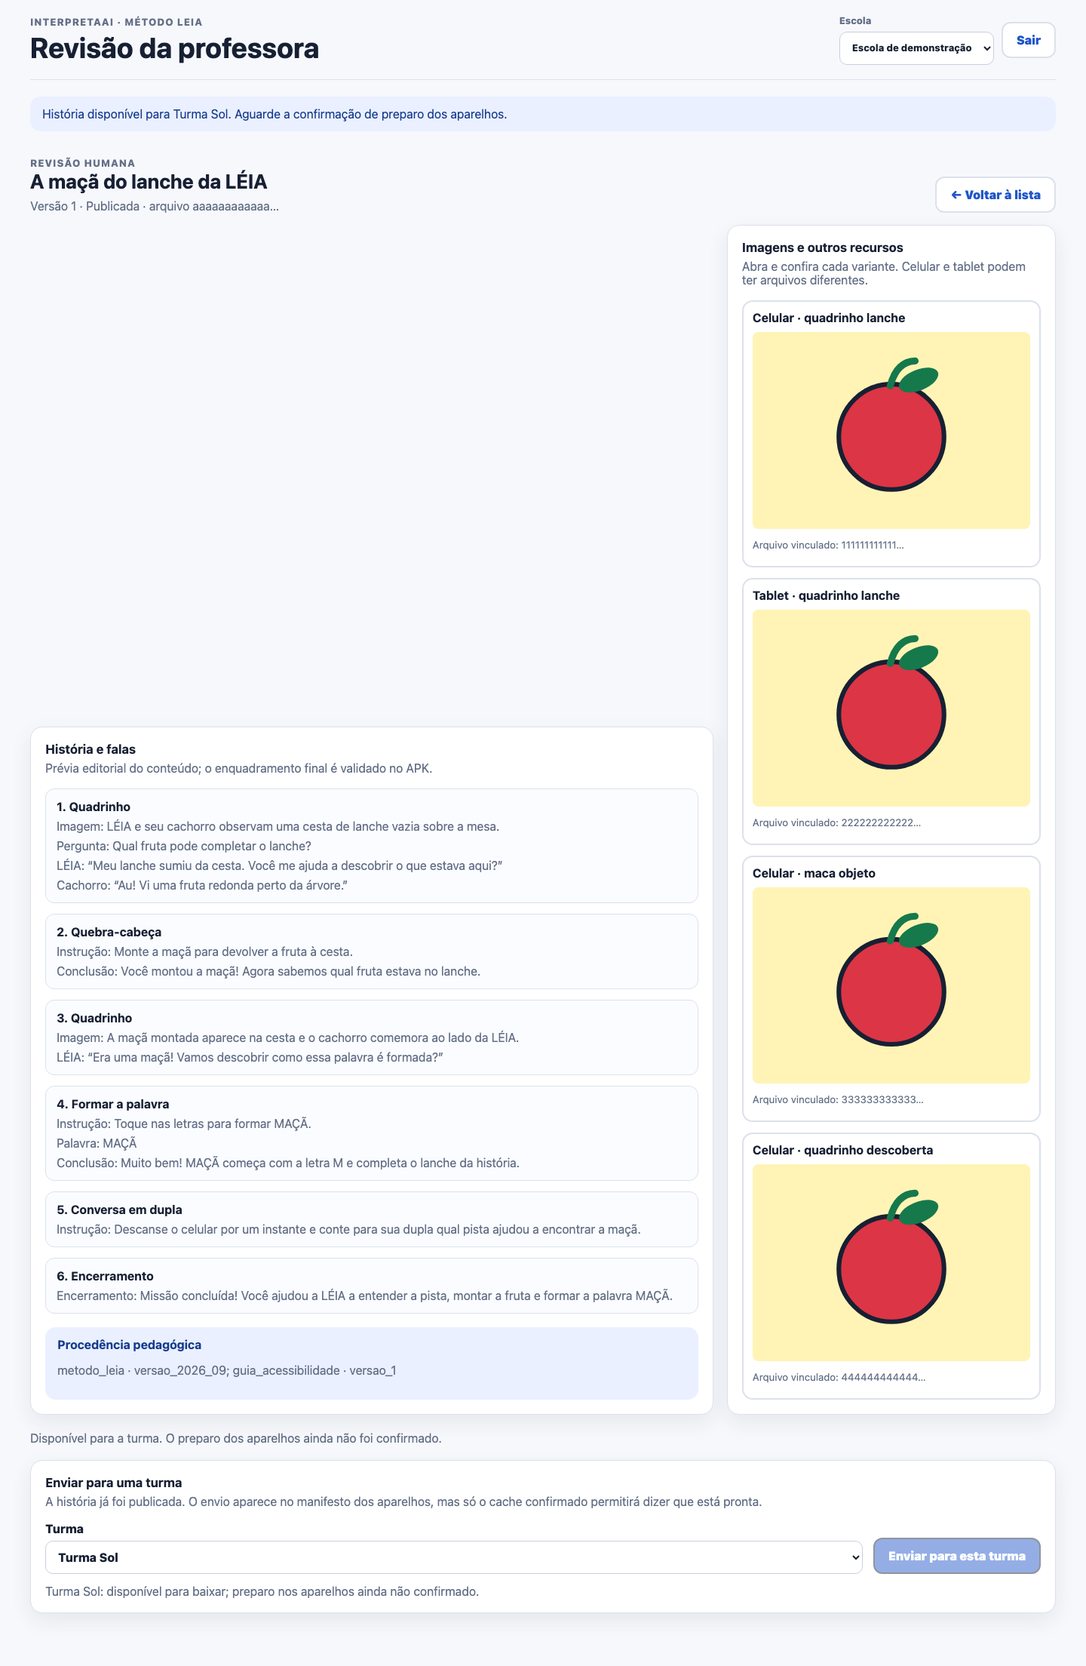
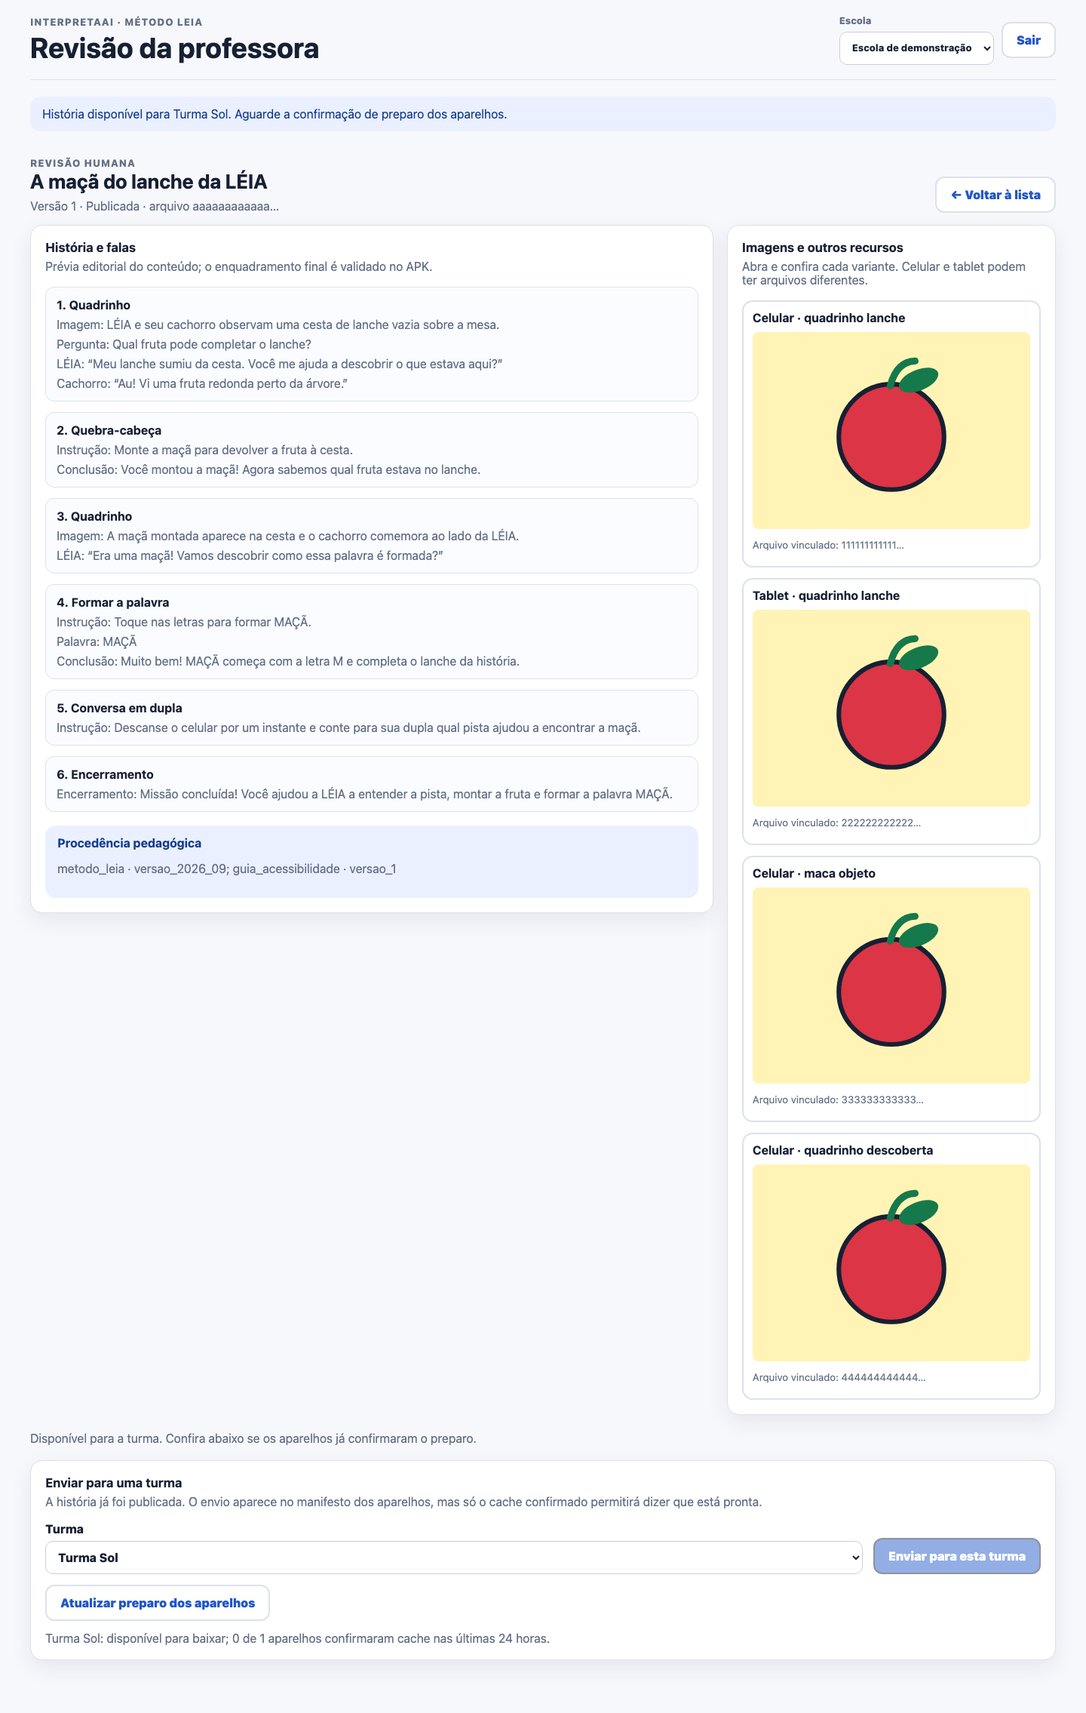
Show recent tablet preparation in teacher Studio and document limits

diff --git a/server/src/main/resources/static/studio/review.js b/server/src/main/resources/static/studio/review.js
@@ -1,5 +1,5 @@
 const studio = { schoolId: null, reviews: [], review: null, confirmed: new Set(), csrf: null,
-  classrooms: [], assignments: [], pendingAssignments: new Map() };
+  classrooms: [], assignments: [], preparation: new Map(), pendingAssignments: new Map() };
 const byId = id => document.getElementById(id);
 const sceneNames = {
   COMIC: "Quadrinho", PUZZLE: "Quebra-cabeça", WORD_BUILDER: "Formar a palavra",
@@ -113,6 +113,7 @@ function updateApproval() {
 
 function renderAssignments() {
   const selector = byId("classroom");
+  const selected = selector.value;
   selector.replaceChildren();
   for (const classroom of studio.classrooms) {
     const option = document.createElement("option");
@@ -120,6 +121,7 @@ function renderAssignments() {
     option.textContent = classroom.name;
     selector.append(option);
   }
+  if (studio.classrooms.some(item => item.classroomId === selected)) selector.value = selected;
   const list = byId("assignment-list");
   list.replaceChildren();
   if (!studio.classrooms.length) {
@@ -129,14 +131,37 @@ function renderAssignments() {
   } else {
     for (const assignment of studio.assignments) {
       const name = studio.classrooms.find(item => item.classroomId === assignment.target.id)?.name || "Turma";
-      list.append(element("p", `${name}: disponível para baixar; preparo nos aparelhos ainda não confirmado.`));
+      const summary = studio.preparation.get(assignment.assignmentId);
+      const detail = !summary ? "consultando aparelhos…"
+        : summary.error ? "não foi possível verificar o preparo; tente atualizar."
+        : summary.pairedCompatibleDevices === 0 ? "nenhum aparelho compatível pareado."
+        : `${summary.recentlyConfirmedDevices} de ${summary.pairedCompatibleDevices} aparelhos ` +
+          `confirmaram cache nas últimas ${summary.freshnessHours} horas.`;
+      list.append(element("p", `${name}: disponível para baixar; ${detail}`));
     }
   }
+  byId("refresh-preparation").hidden = studio.assignments.length === 0;
   if (studio.assignments.length) {
-    byId("review-instruction").textContent = "Disponível para a turma. O preparo dos aparelhos ainda não foi confirmado.";
+    const confirmed = studio.assignments.some(assignment =>
+      (studio.preparation.get(assignment.assignmentId)?.recentlyConfirmedDevices || 0) > 0);
+    byId("review-instruction").textContent = confirmed
+      ? "Há confirmações recentes de cache; confira a quantidade por turma. Isso não indica uso pela criança."
+      : "Disponível para a turma. Confira abaixo se os aparelhos já confirmaram o preparo.";
   }
   byId("assign").disabled = !selector.value || studio.assignments.some(
     item => item.target.id === selector.value);
+}
+
+async function refreshPreparation() {
+  const schoolId = studio.schoolId;
+  const result = await Promise.all(studio.assignments.map(async assignment => {
+    const path = `/studio/api/schools/${schoolId}/assignments/${assignment.assignmentId}/preparation`;
+    try { return [assignment.assignmentId, await api(path)]; }
+    catch (_) { return [assignment.assignmentId, { error: true }]; }
+  }));
+  if (schoolId !== studio.schoolId) return;
+  studio.preparation = new Map(result);
+  renderAssignments();
 }
 
 async function loadAssignments() {
@@ -146,8 +171,10 @@ async function loadAssignments() {
   ]);
   studio.classrooms = classrooms;
   studio.assignments = assignments;
+  studio.preparation.clear();
   byId("assignment-section").hidden = false;
   renderAssignments();
+  await refreshPreparation();
 }
 
 function pendingAssignment(classroomId) {
@@ -262,6 +289,9 @@ byId("publish").addEventListener("click", async () => {
   } catch (error) { feedback(error.message, true); }
 });
 byId("classroom").addEventListener("change", renderAssignments);
+byId("refresh-preparation").addEventListener("click", () =>
+  refreshPreparation().then(() => feedback("Preparo atualizado. Confira a quantidade de aparelhos por turma."))
+    .catch(error => feedback(error.message, true)));
 byId("assign").addEventListener("click", async () => {
   const classroomId = byId("classroom").value;
   const classroom = studio.classrooms.find(item => item.classroomId === classroomId);

diff --git a/server/src/main/resources/static/studio/review.css b/server/src/main/resources/static/studio/review.css
@@ -14,7 +14,6 @@
 .scene-review { margin-top: 18px; }
 .source-review { margin-top: 18px; }
 .review-layout { align-items: start; }
-@media (min-width: 901px) { .review-layout > .card:first-child { position: sticky; top: 20px; } }
 .scene-review article { border: 1px solid var(--line); border-radius: 12px; padding: 14px; background: #fbfcff; }
 .scene-review p { margin: 8px 0 0; }
 .asset-review { margin-top: 18px; }
@@ -32,6 +31,7 @@
 .assignment-controls select { width: 100%; }
 .assignment-list { display: grid; gap: 8px; margin-top: 14px; }
 .assignment-list p { margin: 0; }
+.refresh-preparation { margin-top: 14px; }
 .button:disabled { cursor: not-allowed; opacity: .48; box-shadow: none; transform: none; }
 @media (max-width: 700px) {
   .studio-header { align-items: start; flex-direction: column; padding: 22px 0; }

diff --git a/server/src/main/resources/static/studio/index.html b/server/src/main/resources/static/studio/index.html
@@ -44,6 +44,7 @@
           <div class="assignment-controls"><label class="field" for="classroom">Turma
             <select id="classroom" aria-label="Turma para receber a história"></select></label>
             <button id="assign" class="button blue" type="button">Enviar para esta turma</button></div>
+          <button id="refresh-preparation" class="button quiet refresh-preparation" type="button" hidden>Atualizar preparo dos aparelhos</button>
           <div id="assignment-list" class="assignment-list" aria-live="polite"></div>
         </section>
       </section>

diff --git a/tools/audit-studio-review.py b/tools/audit-studio-review.py
@@ -47,7 +47,7 @@ def main():
     server = ThreadingHTTPServer(("127.0.0.1", 0), partial(SimpleHTTPRequestHandler, directory=str(STATIC)))
     worker = Thread(target=server.serve_forever, daemon=True)
     worker.start()
-    state = {"status": "DRAFT", "assignments": []}
+    state = {"status": "DRAFT", "assignments": [], "confirmed": 0}
 
     def intercept(route):
         path = urlsplit(route.request.url).path
@@ -67,6 +67,9 @@ def main():
                     "packJson": json.dumps(pack, ensure_ascii=False), "assets": assets}
         elif path.endswith("/classrooms"):
             body = [{"classroomId": "class_demo", "name": "Turma Sol"}]
+        elif path.endswith("/preparation"):
+            body = {"assignmentId": "assignment_fixture_001", "pairedCompatibleDevices": 1,
+                    "recentlyConfirmedDevices": state["confirmed"], "freshnessHours": 24}
         elif path.endswith("/assignments"):
             if route.request.method == "POST":
                 state["assignments"] = [{"assignmentId": "assignment_fixture_001",
@@ -91,6 +94,7 @@ def main():
             for width, height, label in [(390, 844, "mobile"), (800, 1280, "tablet"), (1440, 1000, "desktop")]:
                 state["status"] = "DRAFT"
                 state["assignments"] = []
+                state["confirmed"] = 0
                 page = browser.new_page(viewport={"width": width, "height": height})
                 errors = []
                 page.on("pageerror", lambda error: errors.append(str(error)))
@@ -119,9 +123,21 @@ def main():
                 expect(page.get_by_role("button", name="Aprovar esta versão")).to_be_hidden()
                 page.get_by_role("button", name="Enviar para esta turma").click()
                 expect(page.get_by_role("button", name="Enviar para esta turma")).to_be_disabled()
-                expect(page.get_by_text("Turma Sol: disponível para baixar; preparo nos aparelhos ainda não confirmado.")).to_be_visible()
+                expect(page.get_by_text(
+                    "Turma Sol: disponível para baixar; 0 de 1 aparelhos confirmaram cache nas últimas 24 horas."
+                )).to_be_visible()
                 assert page.evaluate("document.documentElement.scrollWidth <= innerWidth"), f"assigned overflow: {label}"
                 page.screenshot(path=OUTPUT / f"{label}-assigned.png", full_page=True)
+                state["confirmed"] = 1
+                page.get_by_role("button", name="Atualizar preparo dos aparelhos").click()
+                expect(page.get_by_text(
+                    "Turma Sol: disponível para baixar; 1 de 1 aparelhos confirmaram cache nas últimas 24 horas."
+                )).to_be_visible()
+                expect(page.get_by_text(
+                    "Há confirmações recentes de cache; confira a quantidade por turma. Isso não indica uso pela criança."
+                )).to_be_visible()
+                expect(page.get_by_text("Preparo atualizado. Confira a quantidade de aparelhos por turma.")).to_be_visible()
+                page.screenshot(path=OUTPUT / f"{label}-confirmed.png", full_page=True)
                 assert not errors, (label, errors)
                 page.close()
             browser.close()

diff --git a/docs/v2/STUDIO_REVIEW.md b/docs/v2/STUDIO_REVIEW.md
@@ -4,7 +4,7 @@ Estado em 17/09/2026: interface e BFF implementados e testados **localmente**. A
 
 ## Jornada implementada
 
-A professora entra via OIDC institucional, escolhe uma escola do seu vínculo ativo, abre um rascunho e confere cenas, diálogos, palavra-alvo, procedência e cada variante privada de imagem/áudio. Só consegue aprovar depois de confirmar todos os arquivos carregados. A aprovação envia revisão, hash do rascunho e hashes das mídias ao servidor; o backend repete autorização e validações. Publicar é uma segunda ação explícita. Depois, a professora escolhe uma turma vinculada e disponibiliza a versão publicada. **Publicar não atribui à turma; atribuir não comprova que os tablets prepararam o cache.** Quando não há histórias, a interface mostra estado vazio verdadeiro, não conteúdo de demonstração.
+A professora entra via OIDC institucional, escolhe uma escola do seu vínculo ativo, abre um rascunho e confere cenas, diálogos, palavra-alvo, procedência e cada variante privada de imagem/áudio. Só consegue aprovar depois de confirmar todos os arquivos carregados. A aprovação envia revisão, hash do rascunho e hashes das mídias ao servidor; o backend repete autorização e validações. Publicar é uma segunda ação explícita. Depois, a professora escolhe uma turma vinculada e disponibiliza a versão publicada. **Publicar não atribui à turma; atribuir não comprova que os tablets prepararam o cache.** Após a atribuição, o painel consulta separadamente aparelhos compatíveis pareados e recibos de cache verificado nas últimas 24 horas, com atualização manual. Quando não há histórias, a interface mostra estado vazio verdadeiro, não conteúdo de demonstração.
 
 ## Fronteira de segurança
 
@@ -14,11 +14,12 @@ Para ativar em staging, configurar um cliente OIDC Spring `studio` com issuer, c
 
 ## Evidência e limites
 
-- `./gradlew :server:test` cobre segurança habilitada/desabilitada, isolamento por escola/autoria, CSRF, aprovação/publicação e atribuição idempotente à turma; revogar o vínculo da professora corta listagem e nova atribuição. OIDC é simulado.
+- `./gradlew :server:test` cobre segurança habilitada/desabilitada, isolamento por escola/autoria, CSRF, aprovação/publicação, atribuição idempotente e recibo de preparo; hash errado, recibo antigo e aparelho revogado não contam. OIDC é simulado.
 - `uv run --with playwright python3 tools/audit-studio-review.py` confere layout e o fluxo revisão → publicação → turma em 390×844, 800×1280 e 1440×1000. As capturas em `output/screenshots/v2-studio-review-fixture/` usam **fixture sintética**, não geração real nem Oracle.
-- Não há edição, pedido de ajuste/rejeição, relatório docente, geração de pacote pelo Codex nem recibo de preparo do tablet nesta interface. A conexão geração → revisão → publicação → atribuição → cache offline ainda está pendente de teste integrado.
+- Não há edição, pedido de ajuste/rejeição, relatório docente nem geração de pacote pelo Codex nesta interface. A conexão geração → revisão → publicação → atribuição → cache offline ainda está pendente de teste integrado em aparelhos escolares e servidor real.
+- O recibo é afirmação de um aplicativo autenticado após verificar arquivos locais; não prova permanência futura do cache, execução pela criança ou aprendizado. A revogação ainda não remove automaticamente a cópia local por manifesto; não usar o contador como métrica infantil.
 - Não houve teste com professoras ou crianças. A auditoria visual técnica não prova usabilidade humana.
-- Um smoke em PostgreSQL 17.11 local aplicou as 19 migrações e executou as consultas novas sem dados. O fluxo com sessão OIDC e PostgreSQL da Oracle permanece sem validação.
+- Um smoke em PostgreSQL 17.11 local e descartável aplicou as 20 migrações até V20, confirmou a tabela de recibos e iniciou o JAR. Isso não substitui teste de consulta com dados em PostgreSQL nem valida sessão OIDC e PostgreSQL da Oracle.
 
 ### Capturas de auditoria (fixture sintética)
 
@@ -26,4 +27,4 @@ Para ativar em staging, configurar um cliente OIDC Spring `studio` com issuer, c
 |---|---|---|
 | ![Revisão no celular com conteúdo sintético](../../output/screenshots/v2-studio-review-fixture/mobile-review.png) | ![Revisão no tablet com conteúdo sintético](../../output/screenshots/v2-studio-review-fixture/tablet-review.png) | ![Revisão no desktop com conteúdo sintético](../../output/screenshots/v2-studio-review-fixture/desktop-review.png) |
 
-Após a atribuição: [celular](../../output/screenshots/v2-studio-review-fixture/mobile-assigned.png), [tablet](../../output/screenshots/v2-studio-review-fixture/tablet-assigned.png), [desktop](../../output/screenshots/v2-studio-review-fixture/desktop-assigned.png). Todas são capturas sintéticas.
+Após a atribuição: [celular](../../output/screenshots/v2-studio-review-fixture/mobile-assigned.png), [tablet](../../output/screenshots/v2-studio-review-fixture/tablet-assigned.png), [desktop](../../output/screenshots/v2-studio-review-fixture/desktop-assigned.png). Com confirmação simulada: [celular](../../output/screenshots/v2-studio-review-fixture/mobile-confirmed.png), [tablet](../../output/screenshots/v2-studio-review-fixture/tablet-confirmed.png), [desktop](../../output/screenshots/v2-studio-review-fixture/desktop-confirmed.png). Todas são capturas sintéticas.

diff --git a/docs/v2/SPRINT_1_TRACKER.md b/docs/v2/SPRINT_1_TRACKER.md
@@ -18,9 +18,9 @@ Nginx em container e Spring na origem `172.18.0.1:8088`; a rota v2 não está in
 | Pareamento e credencial revogável do aparelho | IMPLEMENTADO LOCALMENTE | código HMAC efêmero/uso único, token HMAC, cadeia HTTP por deviceId e revogação imediata testados | integrar Android Keystore e rate limit distribuído no proxy |
 | Fila persistente de autoria | IMPLEMENTADO LOCALMENTE | job, payload, fila, lease, retry, idempotência e auditoria atômicos; worker isolado valida a carga e retoma após expiração testada | conectar etapas RAG/Codex e validar concorrência no PostgreSQL |
 | Validação, revisão, aprovação e publicação | BACKEND E ESTÚDIO LOCAL; E2E PENDENTE | `validateDraft` rejeita aprovação antecipada; revisão adulta e mídias privadas exigem escola/autoria; aprovação confirma hash/revisão e cada mídia. O [Estúdio](STUDIO_REVIEW.md) mostra prévias reais por sessão autenticada e separa aprovação de publicação; testes usam OIDC simulado e fixture visual | testar OIDC/HTTPS/PostgreSQL reais, geração → entrega → cache e uso docente antes de publicar na Oracle |
-| Atribuição à turma | BACKEND, BFF E UI LOCAIS; CONFIRMAÇÃO DO TABLET PENDENTE | Estúdio lista só turmas vinculadas, mantém publicação separada, cria atribuição idempotente e exibe estado como “disponível para baixar”; teste cobre turma alheia e revogação do vínculo. A API do aparelho já entrega manifesto privado | implementar recibo de preparo do Android e testar publicação → manifesto → cache offline em aparelho real |
+| Atribuição e confirmação de preparo | BACKEND, ANDROID E UI LOCAIS; E2E REAL PENDENTE | Estúdio lista só turmas vinculadas, atribui com idempotência e distingue aparelhos pareados de recibos recentes. Android confere pacote/arquivos, envia hash e só avança cursor após confirmação; testes cobrem falha/retry, hash divergente, recibo expirado e revogação de aparelho. Recibo não é evidência de uso infantil | testar publicação → manifesto → cache offline → recibo em aparelho real/Oracle; adicionar tombstone de revogação ao cache local |
 | Auditoria adulta | PARCIAL | criação, recebimento, sanitização/rejeição, transições de versão e atribuição à turma geram evento append-only sem conteúdo | cobrir relatório e mudança de papel |
-| Oracle dev/staging, HTTPS e PostgreSQL | V1 ATIVO; V2 AUSENTE NA ORIGEM | health 200/UP e gateway v1 200/HOT/Ollama; SSH de leitura confirma serviços Spring/Kokoro/WireGuard ativos e Nginx em container; `/api/v2/identity/me` retorna 404 também em `172.18.0.1:8088`. Banco, OIDC e artefato executado ainda não verificados. Um PostgreSQL 17.11 **local e descartável** aplicou as 19 migrações e aceitou as novas consultas, mas não testou a Oracle | preparar staging/rollback, validar OIDC e PostgreSQL reais, implantar backend v2 e só depois abrir rota no Nginx |
+| Oracle dev/staging, HTTPS e PostgreSQL | V1 ATIVO; V2 AUSENTE NA ORIGEM | health 200/UP e gateway v1 200/HOT/Ollama; SSH de leitura confirma serviços Spring/Kokoro/WireGuard ativos e Nginx em container; `/api/v2/identity/me` retorna 404 também em `172.18.0.1:8088`. Banco, OIDC e artefato executado ainda não verificados. PostgreSQL 17.11 **local e descartável** aplicou V1–V20 e iniciou o JAR, mas não testou a Oracle | preparar staging/rollback, validar OIDC e PostgreSQL reais e só depois abrir rota no Nginx |
 | Backup e restauração | PENDENTE EXTERNO | política desenhada | restaurar banco e objeto em staging |
 
 ## Invariantes já verificadas
@@ -40,6 +40,6 @@ Nginx em container e Spring na origem `172.18.0.1:8088`; a rota v2 não está in
 ```
 
 Os testes JUnit usam todas as migrações Flyway em H2 no modo PostgreSQL. Em 17/09/2026, um smoke
-separado iniciou o JAR em PostgreSQL 17.11 temporário, aplicou 19 migrações até V19 e executou
-consultas de turma/atribuição sem dados. O cluster foi desligado e removido. Isso não prova o
-fluxo autenticado nem a compatibilidade com a configuração do PostgreSQL da Oracle.
+separado iniciou o JAR em PostgreSQL 17.11 temporário, aplicou 20 migrações até V20 e confirmou
+a nova tabela de recibos. O cluster foi desligado e removido. Isso não prova consultas com dados,
+o fluxo autenticado nem a compatibilidade com a configuração do PostgreSQL da Oracle.

diff --git a/docs/v2/API_CONTRACTS.md b/docs/v2/API_CONTRACTS.md
@@ -198,23 +198,29 @@ Antes de anunciar um item ou devolver seus bytes, o servidor recalcula o SHA-256
 Uma divergência suspende aquela entrega com estado técnico recuperável; ela não se transforma em
 atividade parcial no tablet.
 
-### Confirmação de entrega
+### Confirmação de preparo do cache
 
-`POST /api/v2/devices/{deviceId}/delivery-events`
+Após verificar o JSON e todos os arquivos selecionados para o viewport, o Android envia, com a
+credencial do próprio aparelho, `POST /api/v2/devices/{deviceId}/assignments/{assignmentId}/prepared`:
 
 ```json
-{
-  "eventId": "delivery_event_001",
-  "assignmentId": "assignment_001",
-  "storyVersion": 1,
-  "state": "READY",
-  "verifiedAssetCount": 3,
-  "occurredAt": "2026-09-16T12:30:00Z"
-}
+{ "packSha256": "<sha256_do_pacote_publicado>" }
 ```
 
-O servidor só apresenta `PRONTA` após `READY` válido. Ausência de contato vira estado técnico, não
-abandono infantil.
+O servidor confere aparelho ativo, escola/turma, atribuição ativa, compatibilidade e hash publicado.
+Repetir a confirmação do mesmo pacote atualiza `lastConfirmedAt`; hash divergente é recusado. O
+cursor do manifesto só avança após a confirmação, e falha temporária é repetida pelo WorkManager.
+Uma sincronização posterior reafirma pacotes ainda íntegros, inclusive quando o manifesto vem vazio.
+
+`GET /api/v2/assignments/{assignmentId}/preparation` exige JWT adulto e `X-School-Id`; o Estúdio
+usa `GET /studio/api/schools/{schoolId}/assignments/{assignmentId}/preparation` via sessão. Ambos
+devolvem `pairedCompatibleDevices`, `recentlyConfirmedDevices`, `lastConfirmationAt`, `observedAt`
+e `freshnessHours` (24). O painel separa aparelhos pareados de confirmações recentes; sem contato
+recente, mostra falta de confirmação, não abandono infantil. O recibo é declaração autenticada do
+aplicativo após checagem local, **não prova criptográfica de que o arquivo permaneça no aparelho**,
+nem comprova que a criança executou a atividade. Revogação de atribuição ainda não tem tombstone
+no manifesto Android: o servidor deixa de confirmar/contar, mas a cópia local pode persistir até a
+política de limpeza/cache; isso exige fechamento antes do piloto escolar.
 
 ### Sessão e eventos
 

diff --git a/.claude/napkin.md b/.claude/napkin.md
@@ -55,6 +55,8 @@
    Do instead: cite Comprasnet `prgCod=1057649` plus contracts 146/147 as proof that SME bought 13 Samsung Galaxy Tab A8 4G `SM-X205N` units at R$1,754.56; do not claim those units represent or were assigned to the GET fleet without inventory/MDM/device evidence, and keep finger input as the baseline because the separate 12.4-inch/S Pen specification belongs to another project.
 7. **[2026-09-17] Clean authoring test data in dependency order**
    Do instead: delete `authoring_plan_queue` before `authoring_job_queue` and `authoring_job`; the preparation handoff creates a plan-queue row with a foreign key to the job.
+8. **[2026-09-17] Refresh built Studio resources before visual audit**
+   Do instead: run `./gradlew :server:processResources` before `tools/audit-studio-review.py`; that audit serves `server/build/resources/main/static/studio`, so source-only JavaScript edits otherwise leave screenshots and assertions testing stale code.
 
 ## Release and Infrastructure
 
